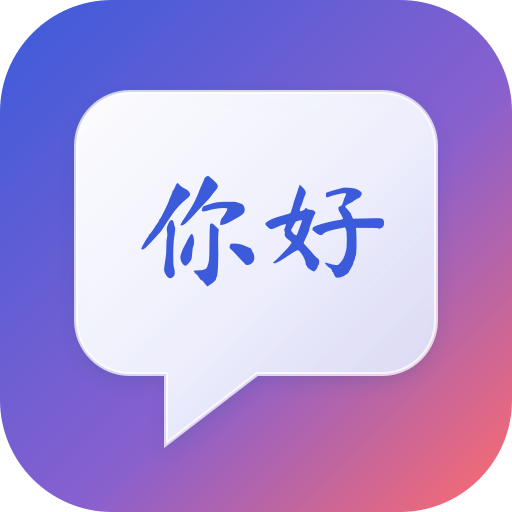
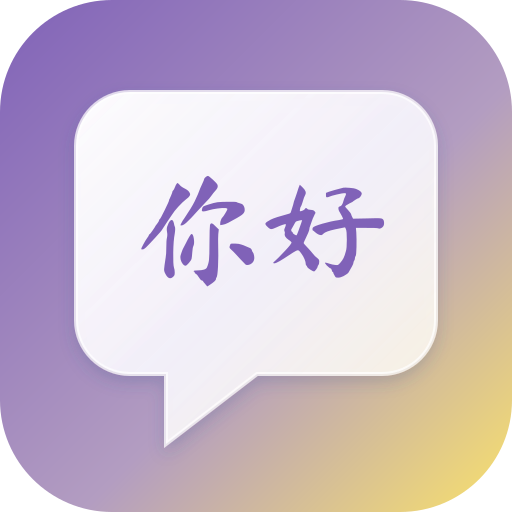
App Update

diff --git a/src/styles.css b/src/styles.css
@@ -1,11 +1,15 @@
-/* Shared blue / coral palette, typography and spacing. */
+/* Shared brand colors, typography and spacing. */
 :root {
   font-family: var(--font-ui);
   font-synthesis: none;
   text-rendering: optimizeLegibility;
   -webkit-font-smoothing: antialiased;
   font-size: 16px;
-  --primary: #3b5bdb;
+  --brand-plum: #8062b8;
+  --brand-butter-yellow: #f9e16b;
+  --primary: var(--brand-plum);
+  --accent: var(--brand-butter-yellow);
+  --on-accent: #000000;
   --bg: #faf9f6;
   --surface: #ffffff;
   --text: #000000;
@@ -24,7 +28,6 @@
   --font-heading: 'Manrope', 'Noto Sans SC', sans-serif;
   --font-chinese: 'Noto Sans SC', sans-serif;
   --font-calligraphy: 'Ma Shan Zheng', 'Noto Sans SC', cursive;
-  --accent: #ff6b6b;
   --heading-1: 44px;
   --heading-2: 32px;
   --heading-3: 22px;
@@ -50,23 +53,21 @@
   --space-8: 40px;
 }
 :root[data-theme='dark'] {
-  --primary: #a5b4fc;
   --bg: #000000;
   --surface: #0d111a;
   --text: #ffffff;
   --muted: #cbd5e1;
-  --on-primary: #000000;
+  --on-primary: #ffffff;
   --shadow: none;
   --press-filter: brightness(1.1);
 }
 @media (prefers-color-scheme: dark) {
   :root[data-theme='system'] {
-    --primary: #a5b4fc;
     --bg: #000000;
     --surface: #0d111a;
     --text: #ffffff;
     --muted: #cbd5e1;
-    --on-primary: #000000;
+    --on-primary: #ffffff;
     --shadow: none;
     --press-filter: brightness(1.1);
   }
@@ -1877,12 +1878,13 @@ label,
 }
 .page-heading.simple-heading > svg {
   flex-shrink: 0;
-  color: var(--text);
+  color: var(--primary);
 }
 .page-heading.simple-heading h1 {
   min-width: 0;
   overflow-wrap: anywhere;
   margin: 0;
+  color: var(--primary);
 }
 .home-progress {
   display: grid;
@@ -1959,10 +1961,11 @@ label,
   font-size: var(--text-sm);
   font-weight: 600;
   min-width: 0;
+  color: var(--on-accent);
 }
 .home-tile svg {
   flex-shrink: 0;
-  color: var(--accent);
+  color: var(--on-accent);
 }
 @container app (max-width: 600px) {
   .main-layout {
@@ -2001,7 +2004,7 @@ label,
   padding: 24px;
   border-radius: var(--radius-panel);
   background: var(--primary);
-  color: var(--on-primary);
+  color: var(--bg);
 }
 .today-focus > h2 {
   grid-column: 1 / -1;
@@ -2025,11 +2028,11 @@ label,
   align-self: stretch;
 }
 .today-focus .button.primary {
-  background: var(--on-primary);
+  background: var(--surface);
   color: var(--primary);
 }
 .home-tile {
-  background: color-mix(in srgb, var(--accent) 50%, var(--surface));
+  background: var(--accent);
   border-color: transparent;
 }
 @container app (max-width: 600px) {
@@ -2053,9 +2056,18 @@ label,
 .settings-tile {
   background: var(--surface);
   border-color: var(--border);
+  color: var(--text);
 }
 .settings-tile svg {
-  color: var(--muted);
+  color: var(--accent);
+}
+:root[data-theme='dark'] .settings-tile {
+  color: var(--accent);
+}
+@media (prefers-color-scheme: dark) {
+  :root[data-theme='system'] .settings-tile {
+    color: var(--accent);
+  }
 }
 .text-button,
 .character-words button {
